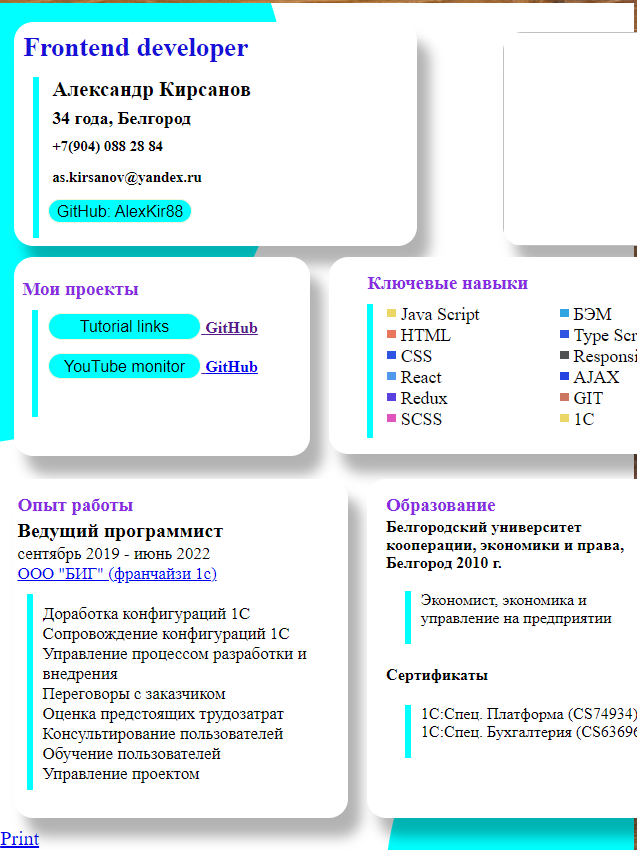
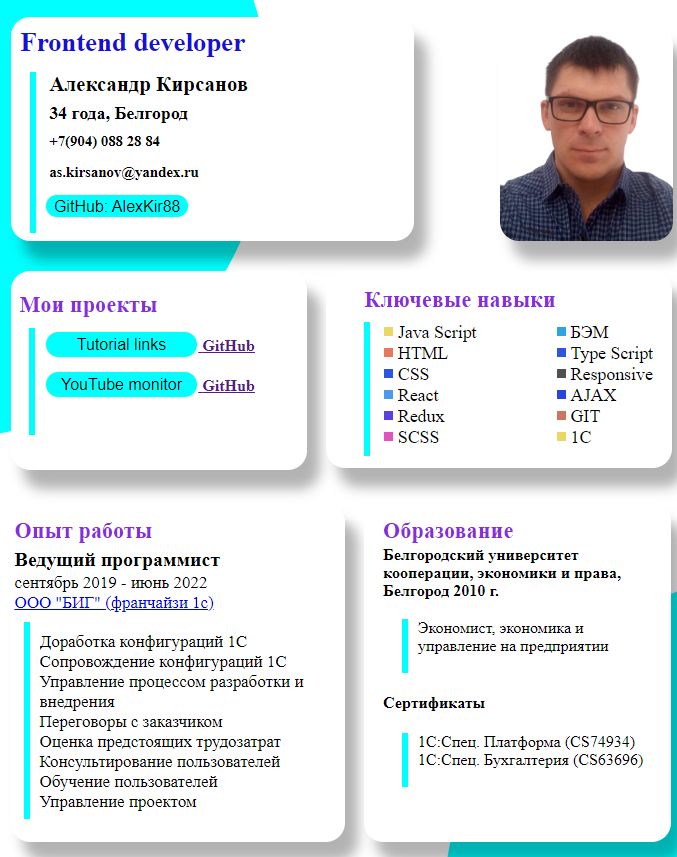
adaptive

diff --git a/main.css b/main.css
@@ -1,3 +1,4 @@
+
 .print {
     position: absolute;
     z-index: 1000;
@@ -34,7 +35,7 @@ h2 {
     font-size: 2.5vh;
     margin: 0.2vh 0;
 }
-.persen, .contfoto_foto, .skills, .project, .experience, .education, .projectTechnologies {
+.persen, .contfoto_foto, .skills, .project, .experience, .education, .projectTechnologies, .feedback {
     box-shadow: 10px 15px 10px rgba(0, 0, 0, 0.3);
     background-color: rgb(255, 255, 255);
 }
@@ -67,7 +68,7 @@ h2 {
     position: relative;
     background-color: rgb(255, 255, 255);
     width: 37vw;
-    max-height: 110vh;
+    max-height: 150vh;
     margin: 1vh auto;
     padding: 0;
 }
@@ -353,4 +354,162 @@ h2 {
     height: 35vw;
     background-color: aqua;
     position: absolute;
+}
+.feedback {
+    padding: 0.7vh 0.5vw;
+    width: 34vw;
+    margin-top: 3vh;
+    height: 20vh;
+    border-radius: 1vw;
+    position: relative;
+    font-size: 1.8vh;
+}
+.feedback_formFeedback {
+    width: 33.5vw;
+}
+.feedback_name, .feedback_contact {
+    display: inline-block;
+    width: 9vw;
+    height: 3vh;
+    margin: 0 1vw;
+    font-size: 1.5vh;
+    border-radius: 0.3vw;
+    border: 1px solid aqua;
+}
+.feedback_content {
+    width: 32vw;
+    height: 3vh;
+    margin: 1vh 0;
+    font-size: 1.8vh;
+    border-radius: 0.3vw;
+    border: 1px solid aqua;
+}
+.feedback_feedbackData {
+    border-left: 5px solid aqua;
+    width: 28vw;
+    /* margin: 1vw; */
+    padding: 0 0.5vw;
+    height: 13vh;
+}
+.feedback_send {
+    border-radius: 1vw;
+    background-color: aqua;
+    min-height: 3vh;
+    max-height: 6vh;
+    width: 8vw;
+    border: 1px solid beige;
+    text-align: center;
+    vertical-align: bottom;
+    padding-top: 0.1vw;
+    font-size: 1.8vh;
+    cursor: pointer;
+}
+
+@media only screen and (max-width: 1000px) {
+    .sheet {
+        width: 100vw;
+        height: max-content;
+        margin: 0;
+    }
+
+    .header {
+        width: 100vw;
+    }
+    .persen {
+        width: 53vw;
+        height: max-content;
+    } 
+    .left_border {
+        width: 44vw;
+        height: max-content;
+    }
+    .contfoto{
+        width: 35vw;
+        margin: 0;
+    } 
+    .contfoto_foto {
+        width: 35vw;
+        margin: 0;
+    }
+    .project {
+        width: 38vw;
+    }
+    .project_info,
+    .project_info:hover .projectTechnologies {
+        width: 37vw;
+    }
+    .conteinerSkills {
+        width: 40vw;
+        height: min-content;
+    }
+   .skills {
+        width: 45vw;
+        margin-right: 0;
+        height: min-content;
+    }
+    .skillbox {
+        width: 22vw;
+    }
+    
+    
+    .project_button {
+        width: 25vw;
+    }
+    .experience{
+        width: 48.5vw;
+        height: min-content;
+    }
+    .position,
+    .responsibilities{
+        width: 46.5vw;
+        height: min-content;
+    }
+    .education {
+        width: 40vw;
+        height: min-content;
+    }
+    .education_speciality,
+    .education_sertificats {
+        width: 39vw;
+        height: min-content;
+    }
+    .feedback{
+        width: 91vw;
+        height: 25vh;
+        margin: 1vw 0;
+    }
+    .feedback_formFeedback{
+        width: 90vw;
+        height: max-content;
+
+    }
+    .feedback_content {
+        width: 85vw;
+    }
+    .feedback_send {
+       width: 25vw; 
+    }
+    .person_linkGitHub {
+        max-width: 20vw;
+        max-height: 10vh;
+
+    }
+    
+    .print {
+        display: none;
+    }
+    .table {
+        display: none;
+    }
+    .flex_cont {
+        width: 90vw;
+        margin: 0;
+        padding: 0;
+    }
+    header, main, footer {
+        margin: 0;
+        padding: 0;
+        width: min-content;
+    }
+
 }

diff --git a/index.html b/index.html
@@ -6,8 +6,9 @@
     <title>Александр Кирсанов</title>
     <meta name='viewport' content='width=device-width, initial-scale=1'>
     <link rel='stylesheet' type='text/css' media='screen' href='main.css'>
+    <!-- <link rel="stylesheet" type="text/css" media="all" href="main.css"> -->
     <link rel="stylesheet" href="https://cdnjs.cloudflare.com/ajax/libs/font-awesome/6.2.0/css/all.css">
-    <script src='main.js'></script>
+    <!-- <script src='main.js'></script> -->
 </head>
 <body>
     <div class="sheet">
@@ -15,7 +16,7 @@
             <div class="circleUp"></div>
         </div>
     <header> 
-        <button class="print" title="Print" onclick="print_CV()">
+        <button class="print" title="Print" >
             <img src="./icons8-открывание-дверцы-принтера-96.png" width="30"></img>
         </button>
         <div class="flex_cont">
@@ -46,7 +47,7 @@
                 </div>
             </div>
             <div class="contfoto">
-                <img class="contfoto_foto" />
+                <img class="contfoto_foto" src="./foto.png" />
             </div>
         </div>
     </header>
@@ -290,25 +291,22 @@
                 </div>
             </div>
         </div>
+        <div class="flex_cont">
+            <div class="feedback">
+                <form class="feedback_formFeedback">
+                    <h3>Отправить сообщение</h3>
+                    <div class="feedback_feedbackData">
+                        <div>Имя<input class='feedback_name' type="text" placeholder='введите ваше имя...' name='nameUser' />
+                        Контакт<input class='feedback_contact' type="text" placeholder='введите контактные данные...'
+                                name='contact' /></div>
+                        <textarea class='feedback_content' placeholder='текст сообщения...'name='content'></textarea>
+                        <button class="feedback_send" type='button'>Отправить</button>
+                    </div>
+                </form>
+            </div>
+        </div>
     </footer>
-    
-    <script>
-      
-        function print_CV() {
-            let img = document.createElement('img');
-            img.src = "./Print_CV.png";
-            img.width = 0;
-            document.body.append(img);
-            const win = window.open();
-            win.document.write('<img src="./Print_CV.png" />');
-            setTimeout(() => {
-                win.print();
-                img.remove();
-                win.close();
-            },10);
-            // setTimeout(() => win.close(),200);
-        }
-    </script>
+    <script src='main.js' type="module"></script>
 </div>
 </body>
 </html>

diff --git a/functions.js b/functions.js
@@ -1,0 +1,30 @@
+export const tlgToken = '***'; 
+export const tlgIdChat = '-887540689';
+
+let isOpen;
+
+let getCurrentDate = () => new Date();
+
+let idUser = () => localStorage.getItem('id');
+
+export const sendInTlg = (text) => {
+    let xhr = new XMLHttpRequest();
+    xhr.open('GET', `https://api.telegram.org/bot${tlgToken}/sendMessage?chat_id=${tlgIdChat}&text=${getCurrentDate().toLocaleString('ru')}${text}${idUser()}`);
+    xhr.send();
+}
+
+window.addEventListener("load", () => {
+    if (!idUser()) {
+        localStorage.setItem('id', new Date().toISOString().slice(-6,-1))
+    }
+    if (isOpen) return;
+    sendInTlg(`/enterCV/`)
+    isOpen = true;
+});
+
+window.addEventListener("unload", () => {
+    if (!isOpen) return;
+    navigator.sendBeacon(`https://api.telegram.org/bot${tlgToken}/sendMessage?chat_id=${tlgIdChat}&text=${getCurrentDate().toLocaleString('ru')}/exitCV/${idUser()}`);
+    // sendInTlg(`/exitCV/`)
+    isOpen = false;
+})

diff --git a/main.js b/main.js
@@ -1,0 +1,27 @@
+import { sendInTlg } from './functions.js';
+
+function print_CV() {
+    let img = document.createElement('img');
+    img.src = "./Print_CV.png";
+    img.width = 0;
+    document.body.append(img);
+    const win = window.open();
+    win.document.write('<img src="./Print_CV.png" />');
+    setTimeout(() => {
+        win.print();
+        img.remove();
+        win.close();
+    },10);
+}
+        
+const sendMessage = (e) => {
+    if (e.target.tagName != 'BUTTON') return;
+    sendInTlg(e.currentTarget.nameUser.value + '/' + e.currentTarget.contact.value + '/' + e.currentTarget.content.value + '/');
+    e.currentTarget.nameUser.value = '';
+    e.currentTarget.contact.value = '';
+    e.currentTarget.content.value = '';
+}
+const buttonSend = document.querySelector(".feedback_formFeedback");
+buttonSend.onclick = sendMessage;
+const buttonPrint = document.querySelector('.print');
+buttonPrint.onclick= print_CV ;
